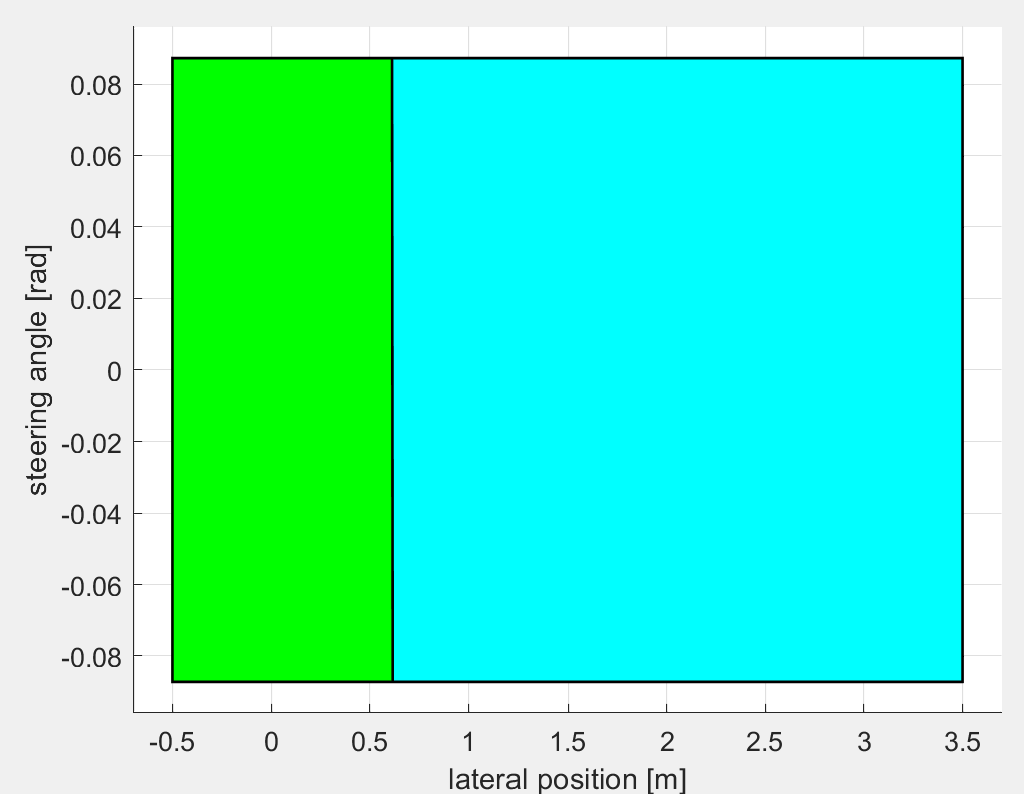
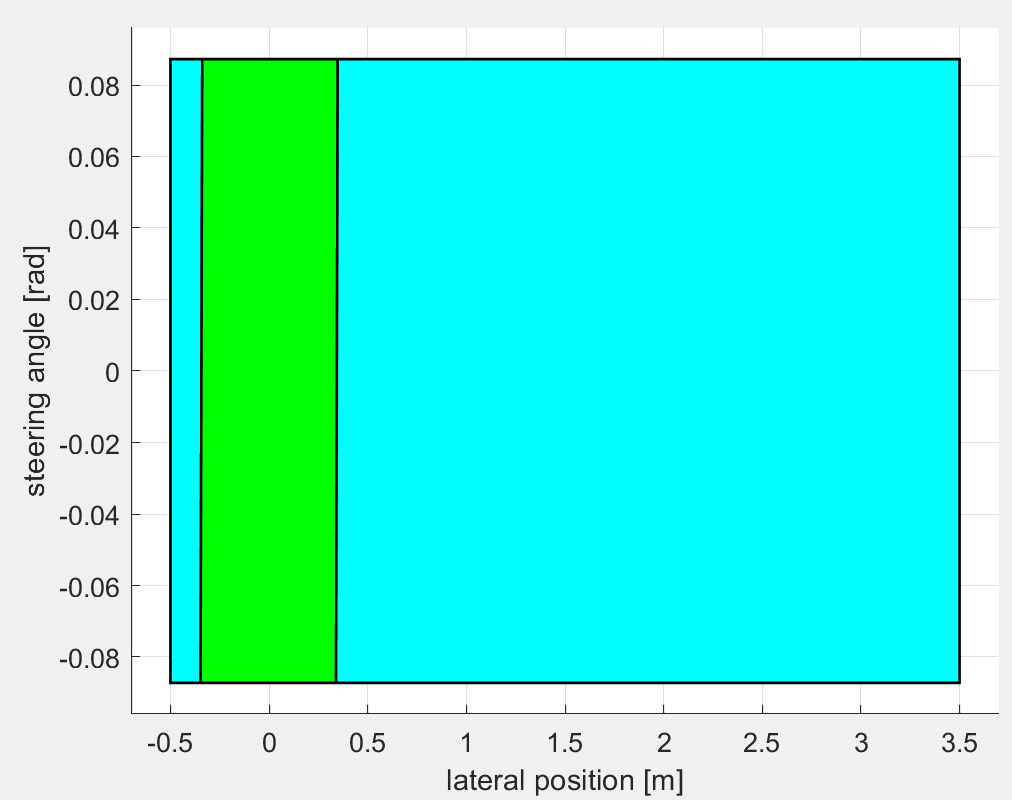
changed weight in controller

diff --git a/car_project/Deliverable_/Deliverable_3/MpcControl_lat.m b/car_project/Deliverable_/Deliverable_3/MpcControl_lat.m
@@ -39,7 +39,7 @@ classdef MpcControl_lat < MpcControlBase
             
             % SET THE PROBLEM CONSTRAINTS con AND THE OBJECTIVE obj HERE
             y_error_penalty = 1 ;% weight of lateral position error
-            theta_error_penalty = 25 ;% weight of heading angle error
+            theta_error_penalty = 1 ;% weight of heading angle error
             Q_tracking_mat = diag([y_error_penalty, theta_error_penalty]);
             R_tracking_mat = 1; % weight of steering effort
             state_constraint = [3.5;          % Maximum allowed y

diff --git a/car_project/Deliverable_/Deliverable_4/MpcControl_lat.m b/car_project/Deliverable_/Deliverable_4/MpcControl_lat.m
@@ -39,7 +39,7 @@ classdef MpcControl_lat < MpcControlBase
             
             % SET THE PROBLEM CONSTRAINTS con AND THE OBJECTIVE obj HERE
             y_error_penalty = 1 ;% weight of lateral position error
-            theta_error_penalty = 25 ;% weight of heading angle error
+            theta_error_penalty = 1 ;% weight of heading angle error
             Q_tracking_mat = diag([y_error_penalty, theta_error_penalty]);
             R_tracking_mat = 1; % weight of steering effort
             state_constraint = [3.5;          % Maximum allowed y
